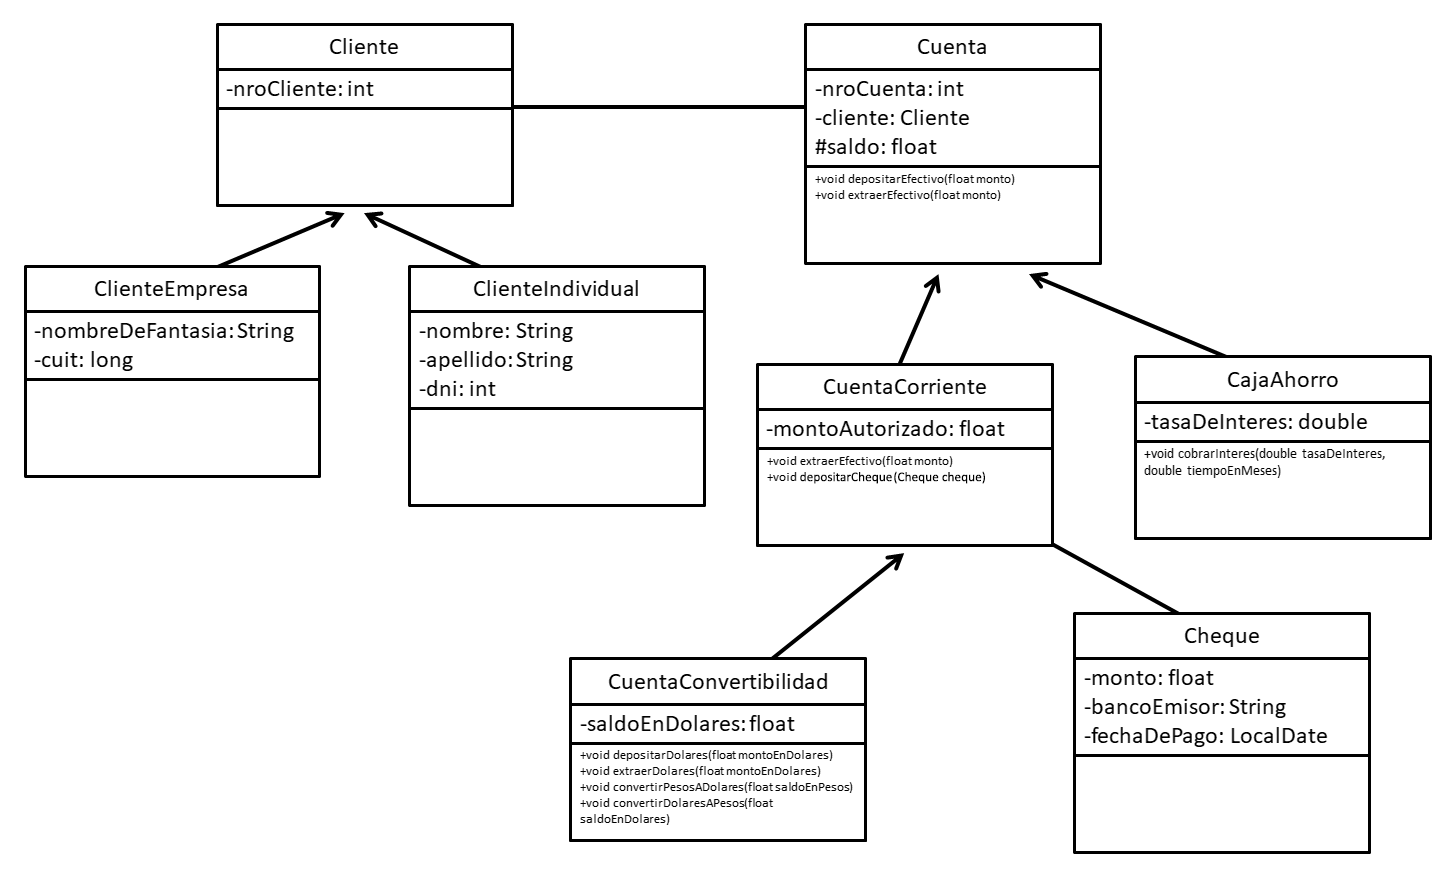
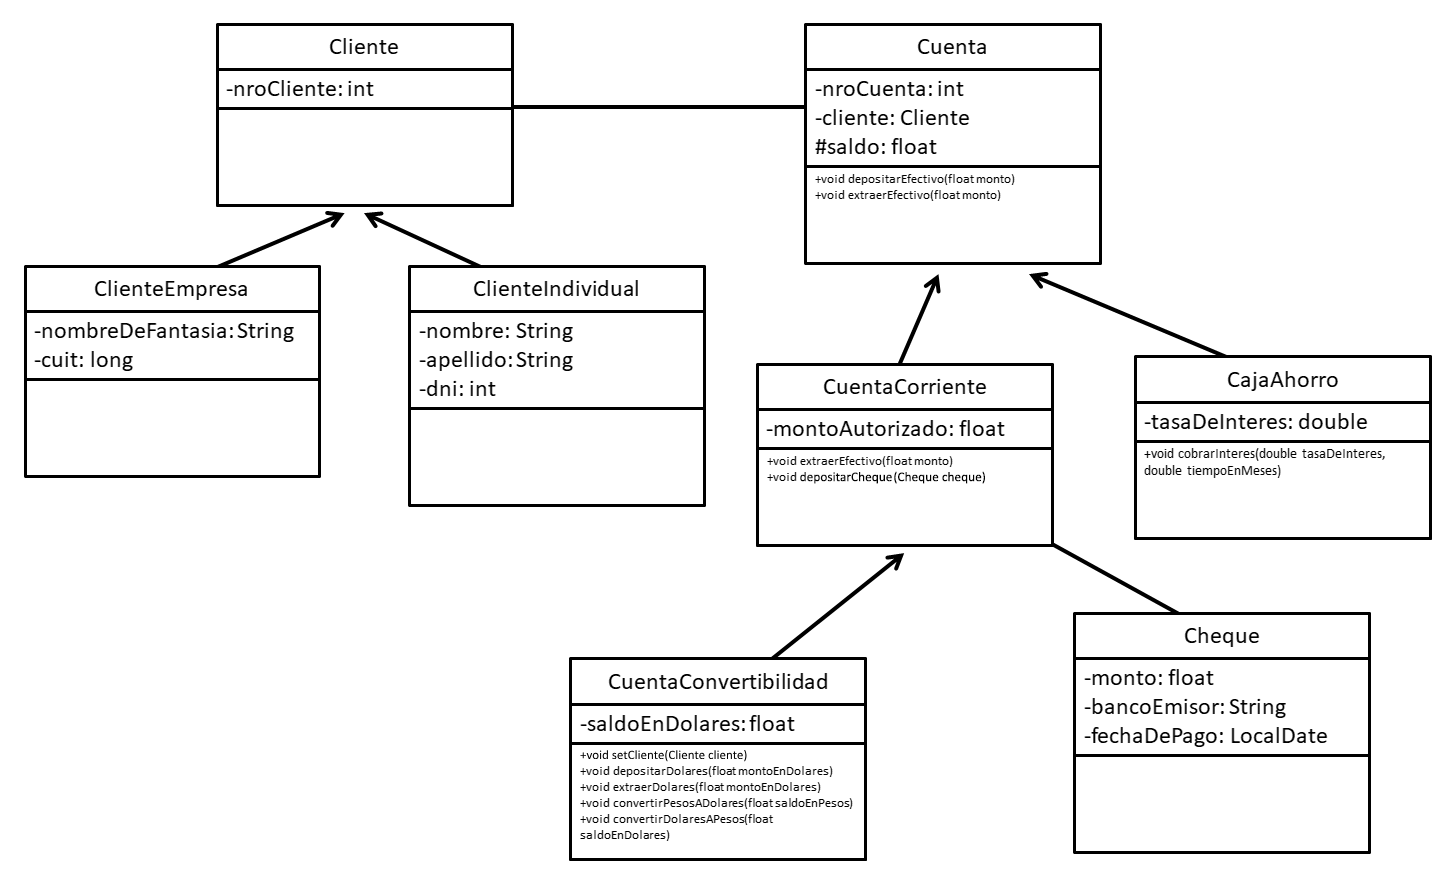
Add files via upload

Changed region(s): [[0.3711, 0.82, 0.5876, 0.9719]]

diff --git a/src/main/java/com/actividad/entregable/obligatoria/tests/TestActividad.java b/src/main/java/com/actividad/entregable/obligatoria/tests/TestActividad.java
@@ -1,7 +1,6 @@
 package com.actividad.entregable.obligatoria.tests;
 
 import java.util.Scanner;
-
 import com.actividad.entregable.obligatoria.ejercicios.CajaAhorro;
 import com.actividad.entregable.obligatoria.ejercicios.Cheque;
 import com.actividad.entregable.obligatoria.ejercicios.Cliente;
@@ -16,11 +15,13 @@ public class TestActividad {
         try ( // Se usa try-with-resources para cerrar automáticamente los recursos (Sugerido por VSCode).
               // Inicialización de sistema bancario:
                 Scanner teclado = new Scanner(System.in)) { // Se usa la clase Scanner para obtener datos primitivos (int, double, etc...) y cadenas.
+
             System.out.print("Ingrese su número de cliente: ");
             int nroCliente = teclado.nextInt();
             System.out.print("Ingrese el tipo de cliente (1-Individual, 2-Empresa): ");
             int tipoCliente = teclado.nextInt();
             Cliente cliente;
+
             if (tipoCliente == 1) {
                 cliente = new ClienteIndividual(nroCliente, null, null, tipoCliente);
             } else {
@@ -30,6 +31,7 @@ public class TestActividad {
                 System.out.println("Tipo de cliente no válido.");
                 return; // Sale del método main si el tipo de cliente no es válido.
             }
+
             if (cliente instanceof ClienteIndividual) { // Se usa el operador binario instanceof para verificar si el objeto pertenece a la clase.
                 System.out.println("Ingrese su nombre:");
                 String nombre = teclado.next();
@@ -56,16 +58,17 @@ public class TestActividad {
                 long cuit = Long.parseLong(cuitStr); // Uso long por seguridad.
                 ((ClienteEmpresa) cliente).setCuit(cuit);
             }
-            System.out.print(
-                    "Ingrese el tipo de cuenta (1-Caja de Ahorro, 2-Cuenta Corriente, 3-Cuenta Convertibilidad):");
+
+            System.out.print("Ingrese el tipo de cuenta (1-Caja de Ahorro, 2-Cuenta Corriente, 3-Cuenta Convertibilidad):");
             int tipoCuenta = teclado.nextInt();
             Cuenta cuenta;
+            
             if (tipoCuenta == 1) {
                 cuenta = new CajaAhorro(nroCliente, cliente, 0, 0);
             } else if (tipoCuenta == 2) {
                 cuenta = new CuentaCorriente(nroCliente, cliente, 0, 500000);
             } else {
-                cuenta = new CuentaConvertibilidad(nroCliente, cliente, 0, 500000,0);
+                cuenta = new CuentaConvertibilidad(nroCliente, (ClienteEmpresa) cliente, 0, 500000, 0);
             }
             if (!(tipoCuenta == 1 || tipoCuenta == 2 || tipoCuenta == 3)) {
                 System.out.println("Tipo de cuenta no válido.");
@@ -77,6 +80,7 @@ public class TestActividad {
                     return; // Sale del método main si el tipo de cuenta no es válido para el tipo de cliente.
                 }
             }
+            
             // Menú de operaciones:
             int operacion = 0;
             do {
@@ -97,11 +101,13 @@ public class TestActividad {
                                 + "Opción: ");
                 operacion = teclado.nextInt();
                 switch (operacion) { // Estructura de control que se usa para ejecutar una de las muchas sentencias de un bloque de código.
+
                     case 1: // Se usa para definir un bloque de código.
                         System.out.print("Ingrese el monto a depositar en pesos: ");
                         float montoDepositoPesos = teclado.nextFloat();
                         cuenta.depositarEfectivo(montoDepositoPesos);
-                        break; // En este caso, se usa para salir de la sentencia.
+                        break; // En este caso, se usa para salir del switch-case.
+
                     case 2: // Se usa para definir un bloque de código.
                         if (cuenta instanceof CuentaCorriente || cuenta instanceof CuentaConvertibilidad) { // Se usa el operador binario instanceof para verificar si el objeto pertenece a la clase.
                             float limiteExtraccion = cuenta.getSaldo();
@@ -114,16 +120,17 @@ public class TestActividad {
                             System.out.print("Ingrese el monto a extraer en pesos: ");
                             float montoExtraccionPesos = teclado.nextFloat();
                             cuenta.extraerEfectivo(montoExtraccionPesos);
-                            break; // En este caso, se usa para salir de la sentencia.
+                            break; // En este caso, se usa para salir del switch-case.
                         } else if (cuenta instanceof CajaAhorro) {
                             System.out.print("Ingrese el monto a extraer en pesos: ");
                             float montoExtraccionPesos = teclado.nextFloat();
                             cuenta.extraerEfectivo(montoExtraccionPesos);
-                            break; // En este caso, se usa para salir de la sentencia.
+                            break; // En este caso, se usa para salir del switch-case.
                         } else {
                             System.out.println("La cuenta no permite extracciones.");
-                            break; // En este caso, se usa para salir de la sentencia.
+                            break; // En este caso, se usa para salir del switch-case.
                         }
+
                     case 3: // Se usa para definir un bloque de código.
                         if (cuenta instanceof CuentaConvertibilidad) { // Se usa el operador binario instanceof para verificar si el objeto pertenece a la clase.
                             System.out.print("Ingrese el monto a depositar en dólares: ");
@@ -132,7 +139,8 @@ public class TestActividad {
                         } else {
                             System.out.println("La cuenta no permite operaciones en dólares.");
                         }
-                        break; // En este caso, se usa para salir de la sentencia.
+                        break; // En este caso, se usa para salir del switch-case.
+
                     case 4: // Se usa para definir un bloque de código.
                         if (cuenta instanceof CuentaConvertibilidad) { // Se usa el operador binario instanceof para verificar si el objeto pertenece a la clase.
                             System.out.print("Ingrese el monto a extraer en dólares: ");
@@ -141,8 +149,9 @@ public class TestActividad {
                         } else {
                             System.out.println("La cuenta no permite operaciones en dólares.");
                         }
-                        break; // En este caso, se usa para salir de la sentencia.
-                        case 5:
+                        break; // En este caso, se usa para salir del switch-case.
+
+                    case 5:
                         if (cuenta instanceof CuentaCorriente || cuenta instanceof CuentaConvertibilidad) {
                             System.out.print("Ingrese el monto del cheque a depositar en pesos: ");
                             float monto = teclado.nextFloat();
@@ -161,7 +170,8 @@ public class TestActividad {
                         } else {
                             System.out.println("La cuenta no permite depósitos con cheque.");
                         }
-                        break; // En este caso, se usa para salir de la sentencia.
+                        break; // En este caso, se usa para salir del switch-case.
+
                     case 6: // Se usa para definir un bloque de código.
                         if (cuenta instanceof CajaAhorro) { // Se usa el operador binario instanceof para verificar si el objeto pertenece a la clase.
                             System.out.print("Ingrese la tasa de interés anual (en %): ");
@@ -172,7 +182,8 @@ public class TestActividad {
                         } else {
                             System.out.println("La cuenta no genera intereses.");
                         }
-                        break; // En este caso, se usa para salir de la sentencia.
+                        break; // En este caso, se usa para salir del switch-case.
+
                     case 7: // Se usa para definir un bloque de código.
                         if (cuenta instanceof CuentaConvertibilidad) { // Se usa el operador binario instanceof para verificar si el objeto pertenece a la clase.
                             System.out.print("Ingrese el monto en pesos a convertir a dólares: ");
@@ -182,7 +193,8 @@ public class TestActividad {
                         } else {
                             System.out.println("La cuenta no permite conversión de moneda.");
                         }
-                        break; // En este caso, se usa para salir de la sentencia.
+                        break; // En este caso, se usa para salir del switch-case.
+
                     case 8: // Se usa para definir un bloque de código.
                         if (cuenta instanceof CuentaConvertibilidad) { // Se usa el operador binario instanceof para verificar si el objeto pertenece a la clase.
                             System.out.print("Ingrese el monto en dólares a convertir a pesos: ");
@@ -192,10 +204,12 @@ public class TestActividad {
                         } else {
                             System.out.println("La cuenta no permite conversión de moneda.");
                         }
-                        break; // En este caso, se usa para salir de la sentencia.
+                        break; // En este caso, se usa para salir del switch-case.
+
                     case 9: // Se usa para definir un bloque de código.
                         System.out.println("Saldo en pesos: " + cuenta.getSaldo());
-                        break; // En este caso, se usa para salir de la sentencia.
+                        break; // En este caso, se usa para salir del switch-case.
+
                     case 10: // Se usa para definir un bloque de código.
                         if (cuenta instanceof CuentaConvertibilidad) { // Se usa el operador binario instanceof para verificar si el objeto pertenece a la clase.
                             System.out.println(
@@ -203,7 +217,8 @@ public class TestActividad {
                         } else {
                             System.out.println("La cuenta no maneja saldo en dólares.");
                         }
-                        break; // En este caso, se usa para salir de la sentencia.
+                        break; // En este caso, se usa para salir del switch-case.
+
                     case 11: // Se usa para definir un bloque de código.
                         if (cuenta instanceof CuentaCorriente) { // Se usa el operador binario instanceof para verificar si el objeto pertenece a la clase.
                             System.out.println("Monto autorizado (sobregiro) de la Cuenta: "
@@ -214,15 +229,17 @@ public class TestActividad {
                         } else {
                             System.out.println("La cuenta no tiene monto autorizado.");
                         }
-                        break; // En este caso, se usa para salir de la sentencia.
+                        break; // En este caso, se usa para salir del switch-case.
+
                     case 0: // Se usa para definir un bloque de código.
                         System.out.println("Saliendo del sistema...");
-                        break; // En este caso, se usa para salir de la sentencia.
+                        break; // En este caso, se usa para salir del switch-case.
+
                     default:
                         System.out.println("Operación no válida.");
-                        break; // En este caso, se usa para salir de la sentencia.
                 }
             } while (operacion != 0); // Se finaliza el bucle al pulsar 0 en el menú de operaciones.
         }
     }
+
 }

diff --git a/src/main/java/com/actividad/entregable/obligatoria/ejercicios/CuentaCorriente.java b/src/main/java/com/actividad/entregable/obligatoria/ejercicios/CuentaCorriente.java
@@ -1,13 +1,13 @@
 package com.actividad.entregable.obligatoria.ejercicios;
 
 import java.time.LocalDate;
-
 import lombok.Getter;
 import lombok.ToString;
 
 @Getter // Genera automáticamente los métodos getter para todos los campos.
 @ToString(callSuper = true) // Genera un método toString() que incluye los campos de la clase padre.
 public class CuentaCorriente extends Cuenta {
+    
     private float montoAutorizado;
 
     public CuentaCorriente(int nroCuenta, Cliente cliente, float saldo, float montoAutorizado) {
@@ -27,14 +27,15 @@ public class CuentaCorriente extends Cuenta {
     }
 
     public void depositarCheque(Cheque cheque) {
-    LocalDate hoy = LocalDate.now(); // Es una clase que representa una fecha sin zona horaria.
-    if (cheque.getFechaDePago().isAfter(hoy)) { // El método isAfter() de la clase LocalDate se utiliza para comparar dos fechas y determinar si una fecha es posterior a otra.
-        System.out.println("El cheque aún no está disponible para depósito. Fecha de pago: " + cheque.getFechaDePago());
-    } else if (cheque.getMonto() <= 0) {
-        System.out.println("El monto del cheque debe ser positivo o no nulo.");
-    } else {
-        this.saldo += cheque.getMonto();
-        System.out.println("Cheque depositado por " + cheque.getMonto() + " pesos del banco " + cheque.getBancoEmisor() + ". Nuevo saldo: " + saldo);
+        LocalDate hoy = LocalDate.now(); // Es una clase que representa una fecha sin zona horaria.
+        if (cheque.getFechaDePago().isAfter(hoy)) { // El método isAfter() de la clase LocalDate se utiliza para comparar dos fechas y determinar si una fecha es posterior a otra.
+            System.out.println("El cheque aún no está disponible para depósito. Fecha de pago: " + cheque.getFechaDePago());
+        } else if (cheque.getMonto() <= 0) {
+            System.out.println("El monto del cheque debe ser positivo o no nulo.");
+        } else {
+            this.saldo += cheque.getMonto();
+            System.out.println("Cheque depositado por " + cheque.getMonto() + " pesos del banco " + cheque.getBancoEmisor() + ". Nuevo saldo: " + saldo);
+        }
     }
-}
+
 }

diff --git a/src/main/java/com/actividad/entregable/obligatoria/ejercicios/CuentaConvertibilidad.java b/src/main/java/com/actividad/entregable/obligatoria/ejercicios/CuentaConvertibilidad.java
@@ -6,11 +6,21 @@ import lombok.ToString;
 @Getter // Genera automáticamente los métodos getter para todos los campos.
 @ToString(callSuper = true) // Genera un método toString() que incluye los campos de la clase padre.
 public final class CuentaConvertibilidad extends CuentaCorriente {
+    
     private float saldoEnDolares;
 
-    public CuentaConvertibilidad(int nroCuenta, Cliente cliente, float saldo, float montoAutorizado, float saldoEnDolares) {
+    public CuentaConvertibilidad(int nroCuenta, ClienteEmpresa cliente, float saldo, float montoAutorizado, float saldoEnDolares) {
         super(nroCuenta, cliente, saldo, montoAutorizado);
         this.saldoEnDolares = saldoEnDolares;
+    }
+
+    @Override // Redefine el método de la clase padre.
+    public void setCliente (Cliente cliente) {
+        if(cliente instanceof ClienteEmpresa) {
+            super.setCliente(cliente);
+        } else {
+            System.out.println("No se puede asignar un cliente que no sea cliente empresa.");
+        }
     }
 
     public void depositarDolares(float montoEnDolares) {
@@ -63,4 +73,5 @@ public final class CuentaConvertibilidad extends CuentaCorriente {
             System.out.println("Tus " + saldoEnDolares + " dólares pasan a ser " + (saldoEnDolares / tasaCambioDolaresAPesos) + " pesos argentinos.");
         }
     }
+    
 }

diff --git a/src/main/java/com/actividad/entregable/obligatoria/ejercicios/CajaAhorro.java b/src/main/java/com/actividad/entregable/obligatoria/ejercicios/CajaAhorro.java
@@ -6,6 +6,7 @@ import lombok.ToString;
 @Getter // Genera automáticamente los métodos getter para todos los campos.
 @ToString(callSuper = true) // Genera un método toString() que incluye los campos de la clase padre.
 public final class CajaAhorro extends Cuenta {
+    
     private double tasaDeInteres;
 
     public CajaAhorro(int nroCuenta, Cliente cliente, float saldo, double tasaDeInteres) {
@@ -24,4 +25,5 @@ public final class CajaAhorro extends Cuenta {
             System.out.println("Saldo actual en pesos: " + saldo);
         }
     }
+    
 }

diff --git a/src/main/java/com/actividad/entregable/obligatoria/ejercicios/ClienteIndividual.java b/src/main/java/com/actividad/entregable/obligatoria/ejercicios/ClienteIndividual.java
@@ -8,6 +8,7 @@ import lombok.ToString;
 @Setter // Genera automáticamente los métodos setter para todos los campos de la clase.
 @ToString(callSuper = true) // Genera un método toString() que incluye los campos de la clase padre.
 public final class ClienteIndividual extends Cliente {
+    
     private String nombre;
     private String apellido;
     private int dni;
@@ -18,4 +19,5 @@ public final class ClienteIndividual extends Cliente {
         this.apellido = apellido;
         this.dni = dni;
     }
+    
 }

diff --git a/src/main/java/com/actividad/entregable/obligatoria/ejercicios/ClienteEmpresa.java b/src/main/java/com/actividad/entregable/obligatoria/ejercicios/ClienteEmpresa.java
@@ -8,6 +8,7 @@ import lombok.ToString;
 @Setter // Genera automáticamente los métodos setter para todos los campos de la clase.
 @ToString(callSuper = true) // Genera un método toString() que incluye los campos de la clase padre.
 public final class ClienteEmpresa extends Cliente {
+
     private String nombreDeFantasia;
     private long cuit;
     
@@ -16,4 +17,5 @@ public final class ClienteEmpresa extends Cliente {
         this.nombreDeFantasia = nombreDeFantasia;
         this.cuit = cuit;
     }
+    
 }

diff --git a/src/main/java/com/actividad/entregable/obligatoria/ejercicios/Cheque.java b/src/main/java/com/actividad/entregable/obligatoria/ejercicios/Cheque.java
@@ -1,14 +1,15 @@
 package com.actividad.entregable.obligatoria.ejercicios;
 
 import java.time.LocalDate;
-
 import lombok.AllArgsConstructor;
 import lombok.Getter;
 
 @AllArgsConstructor // Genera automáticamente un constructor con todos los campos de la clase como parámetros.
 @Getter // Genera automáticamente los métodos getter para todos los campos de la clase.
 public class Cheque {
+    
     private float monto;
     private String bancoEmisor;
     private LocalDate fechaDePago;
+
 }

diff --git a/src/main/java/com/actividad/entregable/obligatoria/ejercicios/Cuenta.java b/src/main/java/com/actividad/entregable/obligatoria/ejercicios/Cuenta.java
@@ -8,7 +8,7 @@ import lombok.Data;
 public abstract class Cuenta {
 
     private final int nroCuenta;
-    private final Cliente cliente;
+    private Cliente cliente;
     protected float saldo;
 
    public void depositarEfectivo(float monto) {
@@ -30,4 +30,5 @@ public abstract class Cuenta {
             System.out.println("No es posible descontar ese monto.");
         }
     }
+    
 }

diff --git a/src/main/java/com/actividad/entregable/obligatoria/ejercicios/Cliente.java b/src/main/java/com/actividad/entregable/obligatoria/ejercicios/Cliente.java
@@ -6,5 +6,7 @@ import lombok.Data;
 @AllArgsConstructor // Genera automáticamente un constructor con todos los campos de la clase como parámetros.
 @Data // Genera automáticamente los métodos getter, setter y toString para todos los campos de la clase.
 public abstract class Cliente{
+
     private int nroCliente;
+    
 }
